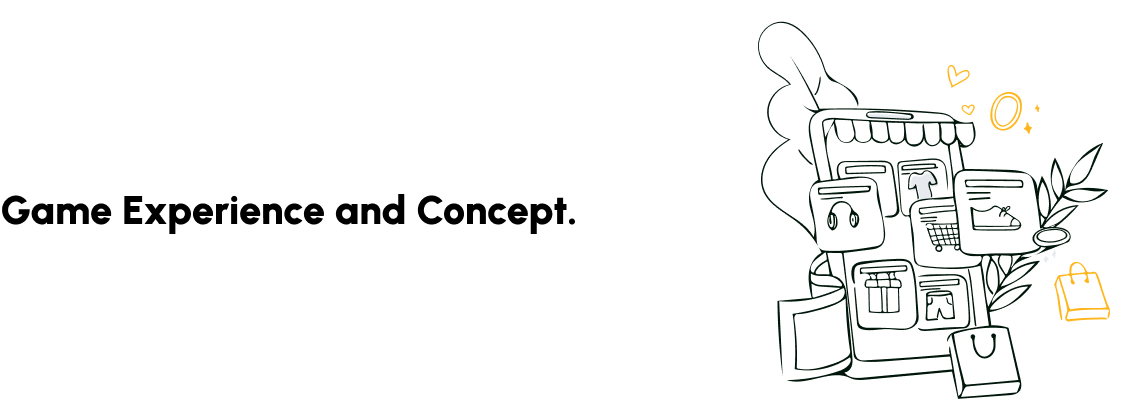
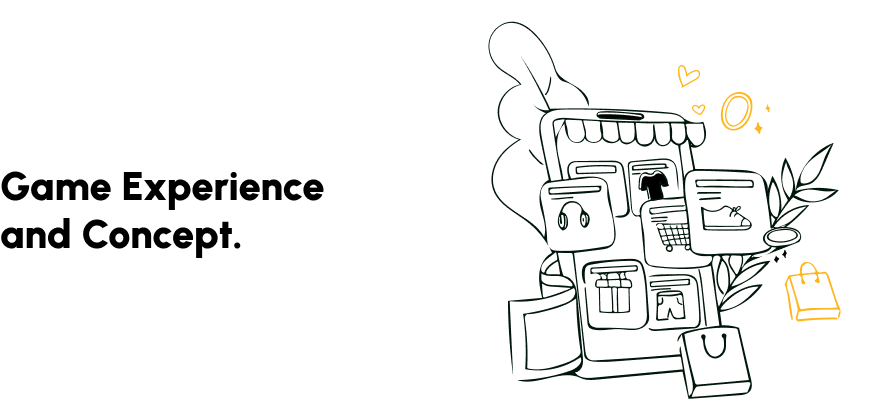
index

diff --git a/projects/PageStyle.css b/projects/PageStyle.css
@@ -14,8 +14,12 @@ body{
     flex-wrap: wrap;
 }
 p{
-    font-size: 30px;
-    padding: 40px;
+    font-size: 24px;
+    padding: 20px;
+    width: 876px;
+}
+h1{
+    width: 876px;
 }
 /********boxes*******/
 
@@ -25,10 +29,17 @@ p{
     height: auto;
 }
 
+.imgResize{
+
+    height: auto;
+    max-width: 50vw;
+
+}
+
 
 
 .TxtBox{
-    padding: 10vh;
+    padding: 5vh;
     display: flex;
     width: auto;
     flex-direction: column;
@@ -43,5 +54,5 @@ p{
     display: flex;
     justify-content: center;
     align-items: center;
-    gap: 90px;
+    gap: 40px;
 }
